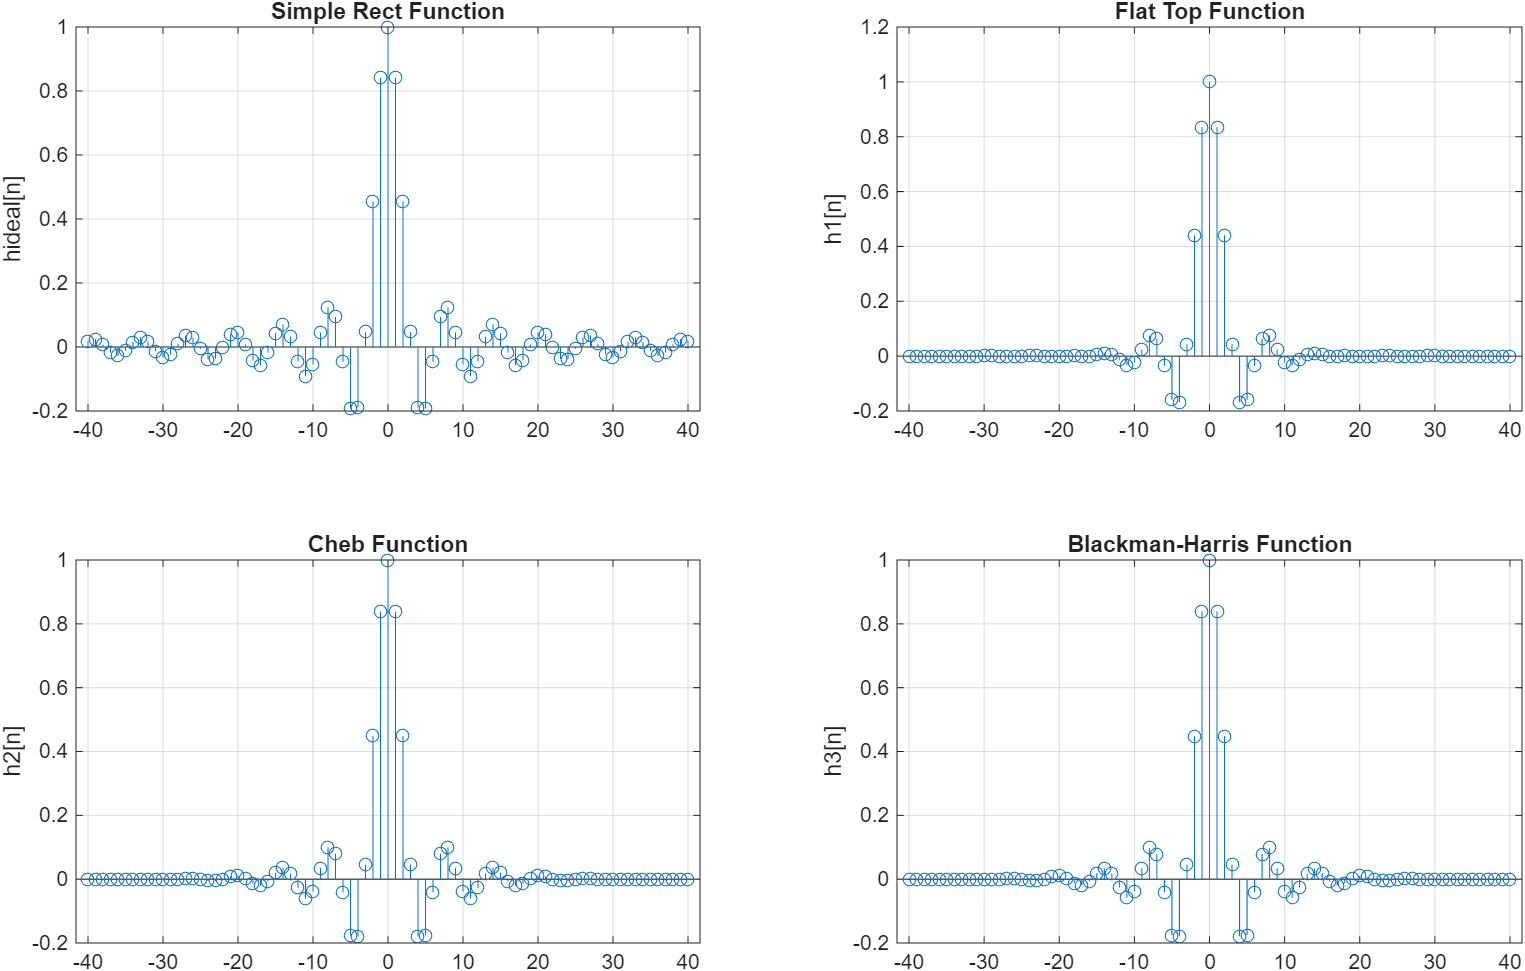
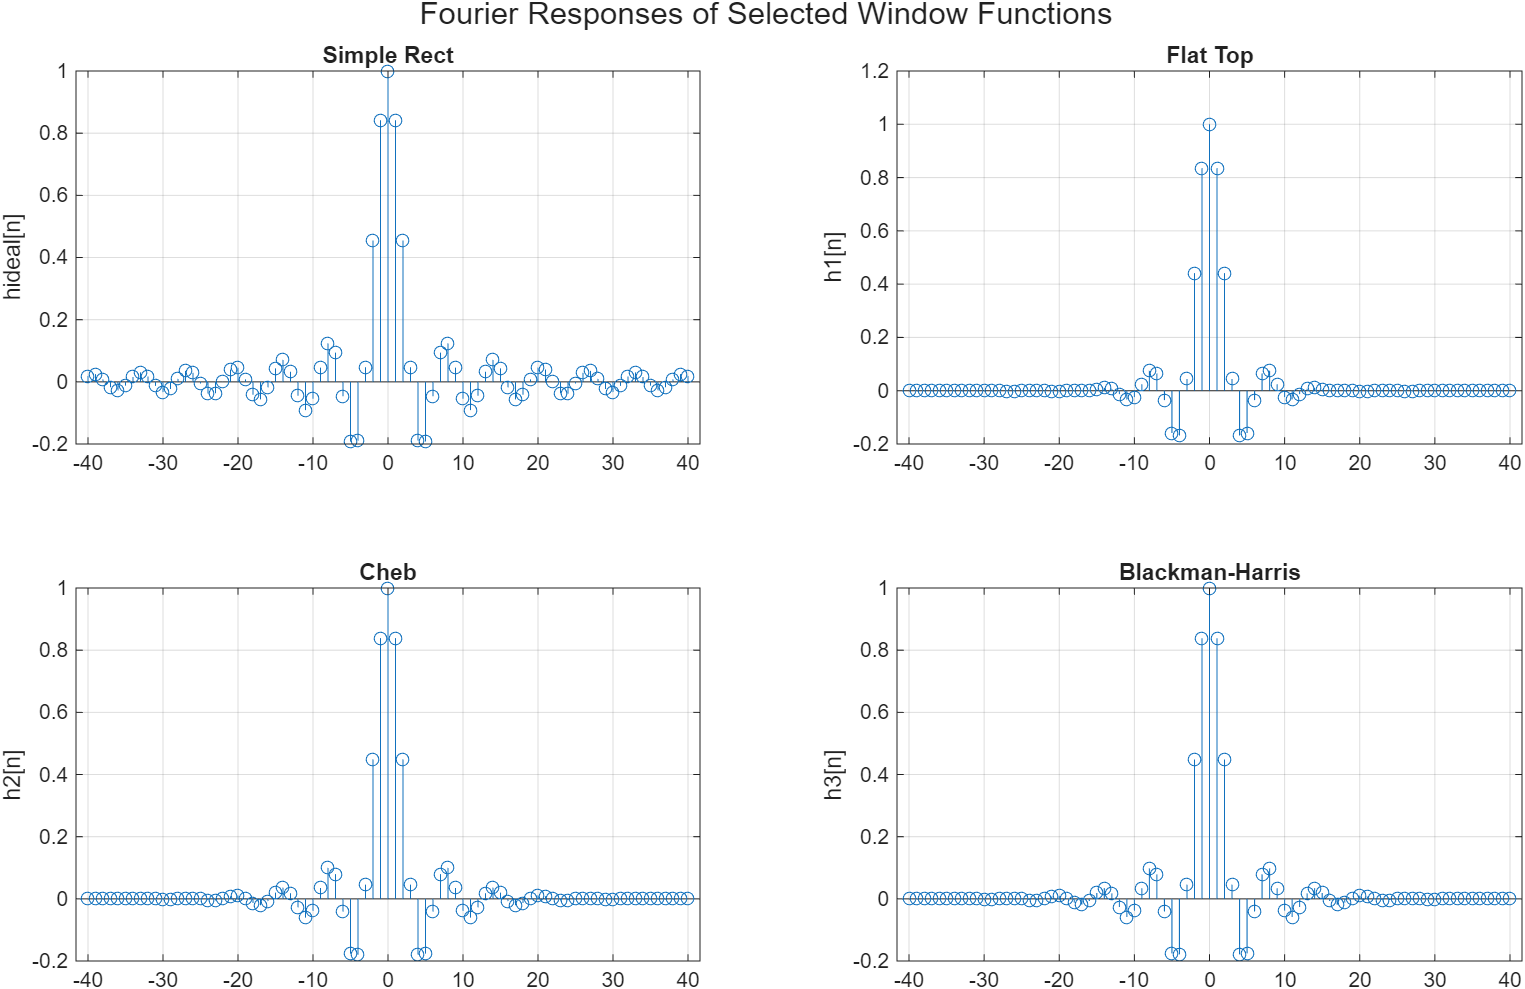
Added title to subplot of Fourier Trans.

diff --git a/three_window_functions.m b/three_window_functions.m
@@ -30,14 +30,15 @@ H1 = polyval(h1,E);
 H2 = polyval(h2,E);
 H3 = polyval(h3,E);
 figure(1);
+sgtitle("Fourier Responses of Selected Window Functions");
 subplot(221); stem(n,h0); grid on; ylabel('hideal[n]');
-title("Simple Rect Function");
+title("Simple Rect");
 subplot(222); stem(n,h1); grid on; ylabel('h1[n]');
-title("Flat Top Function");
+title("Flat Top");
 subplot(223); stem(n,h2); grid on; ylabel('h2[n]');
-title("Cheb Function");
+title("Cheb");
 subplot(224); stem(n,h3); grid on; ylabel('h3[n]');
-title("Blackman-Harris Function");
+title("Blackman-Harris");
 figure(2);
 plot(F,20*log10(abs(H0)),...
 F,20*log10(abs(H1)),...
